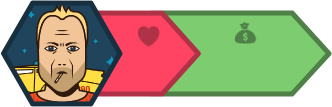
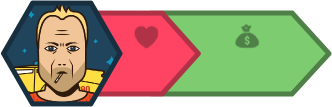
Enhancements to the player panel.

Changed region(s): [[0.6928, 0.1963, 0.7831, 0.4486], [0.3916, 0.2243, 0.4819, 0.4486]]

diff --git a/SpaceInvaders/core/src/com/space/invaders/vistas/VistaJuego.java b/SpaceInvaders/core/src/com/space/invaders/vistas/VistaJuego.java
@@ -85,7 +85,9 @@ public class VistaJuego extends VistaEstadoJuego {
 		FreeTypeFontParameter fontParameter = new FreeTypeFontParameter();
 		fontParameter.size = 25;
 		fontParameter.color = Color.WHITE;
-		
+		fontParameter.shadowColor = Color.BLACK;
+		fontParameter.shadowOffsetX = 1;
+		fontParameter.shadowOffsetY = 1;
 		fuentePuntaje = generator.generateFont(fontParameter);
 		layoutPuntaje = new GlyphLayout();
 		puntaje = 9999;
@@ -126,7 +128,7 @@ public class VistaJuego extends VistaEstadoJuego {
 		
 		puntaje+= 11;
 		layoutPuntaje.setText(fuentePuntaje, "$" + puntaje);
-		fuentePuntaje.draw(batch, layoutPuntaje, 210,getHeight()-75);
+		fuentePuntaje.draw(batch, layoutPuntaje, 205,getHeight()-75);
 		
 		
 		layoutVidas.setText(fuenteVidas, Integer.toString(vidas));
